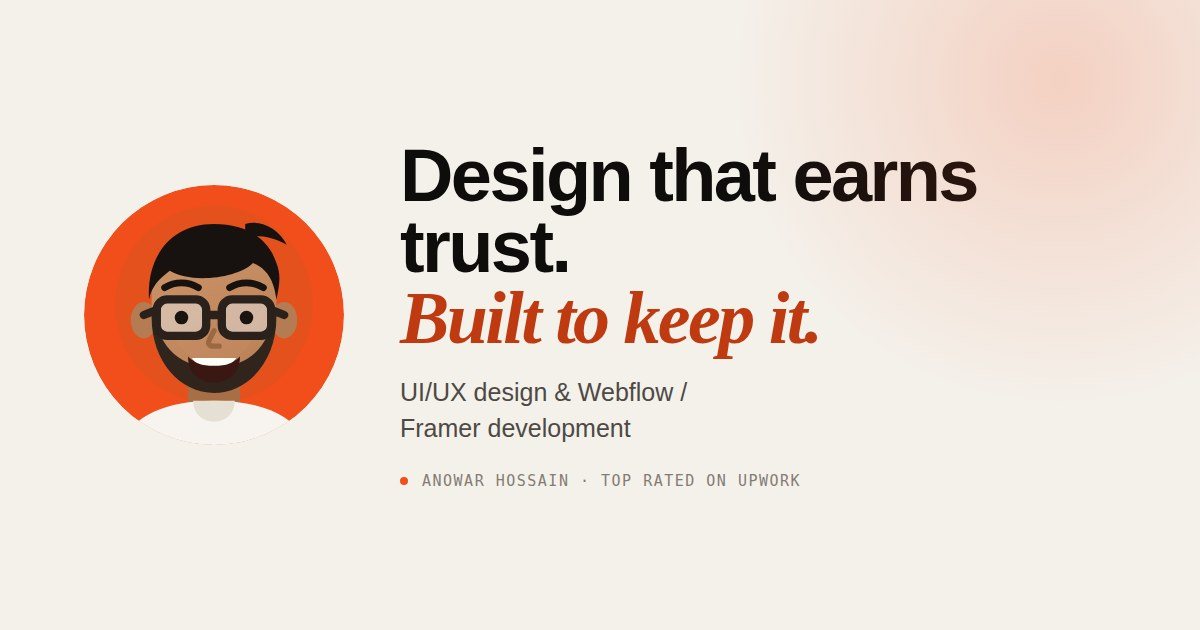
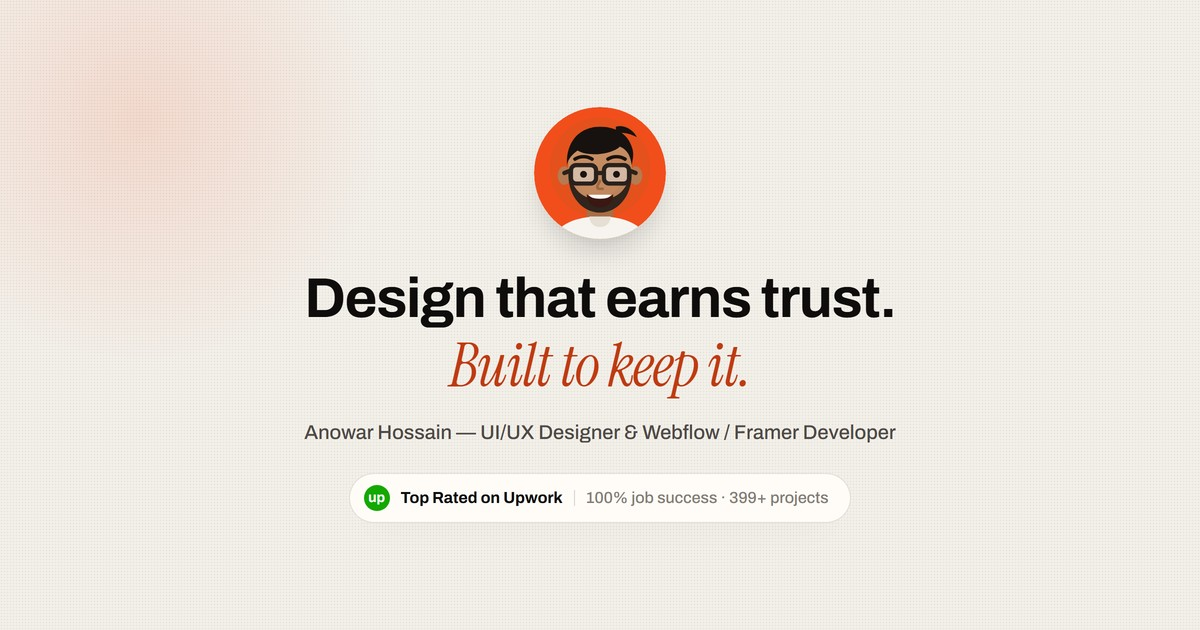
Ship the new social-share thumbnail (option C) with cache-busting
Replaced uploads/og-cover.jpg with the "portrait + credibility badge"
design: the avatar recentered (the old flat-left layout is exactly why
WhatsApp's square crop was cutting the headline off, per the screenshot
that started this), a bold two-line headline, and a graphic replica of
the "Top Rated on Upwork" badge for instant credibility in the preview
itself, before anyone even clicks through.

Also fixed a real caching bug on the way: og-cover.jpg keeps the same
URL across deploys, and /uploads/* is cached 30 days at the edge — worse,
Facebook/Slack/WhatsApp/LinkedIn all cache a *scraped* link preview
independently of any Cache-Control header we set, so replacing the file
in place could've gone on serving the old image indefinitely to anyone
who'd already shared a link. Same fix as the CSS/JS versioning already
in place: og:image and twitter:image URLs now carry a content-hash
?v= query string (OG_VER in build.py), so this and every future image
swap forces a fresh fetch automatically.

Changed region(s): [[0.0, 0.0, 0.9867, 0.7238], [0.2775, 0.754, 0.7092, 0.8143]]

diff --git a/services/ai-product-builds/index.html b/services/ai-product-builds/index.html
@@ -13,7 +13,7 @@
 <meta property="og:description" content="Design and production work on AI-built apps: Lovable, v0, Bolt and Claude Code prototypes taken to something you can ship. $750-$2,000, one to two-and-a-half weeks.">
 <meta property="og:type" content="website">
 <meta property="og:url" content="https://anowarhdesign.com/services/ai-product-builds">
-<meta property="og:image" content="https://anowarhdesign.com/uploads/og-cover.jpg">
+<meta property="og:image" content="https://anowarhdesign.com/uploads/og-cover.jpg?v=977c139b35">
 <meta property="og:image:width" content="1200">
 <meta property="og:image:height" content="630">
 <meta property="og:image:alt" content="Anowar Hossain — UI/UX design and Webflow / Framer development">
@@ -22,7 +22,7 @@
 <meta name="twitter:card" content="summary_large_image">
 <meta name="twitter:title" content="AI Product Builds | Finish Your Lovable App | Anowar Hossain">
 <meta name="twitter:description" content="Design and production work on AI-built apps: Lovable, v0, Bolt and Claude Code prototypes taken to something you can ship. $750-$2,000, one to two-and-a-half weeks.">
-<meta name="twitter:image" content="https://anowarhdesign.com/uploads/og-cover.jpg">
+<meta name="twitter:image" content="https://anowarhdesign.com/uploads/og-cover.jpg?v=977c139b35">
 <link rel="icon" href="/uploads/favicon.ico" sizes="32x32">
 <link rel="icon" type="image/svg+xml" href="/uploads/mark.svg">
 <link rel="icon" type="image/png" href="/uploads/mark-64.png" sizes="64x64">

diff --git a/services/webflow-development/index.html b/services/webflow-development/index.html
@@ -13,7 +13,7 @@
 <meta property="og:description" content="Production Webflow development with an editor-proof CMS. 6-12 page marketing sites, $1,250-$3,000, two to three weeks. Migration, QA and launch support included.">
 <meta property="og:type" content="website">
 <meta property="og:url" content="https://anowarhdesign.com/services/webflow-development">
-<meta property="og:image" content="https://anowarhdesign.com/uploads/og-cover.jpg">
+<meta property="og:image" content="https://anowarhdesign.com/uploads/og-cover.jpg?v=977c139b35">
 <meta property="og:image:width" content="1200">
 <meta property="og:image:height" content="630">
 <meta property="og:image:alt" content="Anowar Hossain — UI/UX design and Webflow / Framer development">
@@ -22,7 +22,7 @@
 <meta name="twitter:card" content="summary_large_image">
 <meta name="twitter:title" content="Webflow Developer for SaaS &amp; B2B Teams | Anowar Hossain">
 <meta name="twitter:description" content="Production Webflow development with an editor-proof CMS. 6-12 page marketing sites, $1,250-$3,000, two to three weeks. Migration, QA and launch support included.">
-<meta name="twitter:image" content="https://anowarhdesign.com/uploads/og-cover.jpg">
+<meta name="twitter:image" content="https://anowarhdesign.com/uploads/og-cover.jpg?v=977c139b35">
 <link rel="icon" href="/uploads/favicon.ico" sizes="32x32">
 <link rel="icon" type="image/svg+xml" href="/uploads/mark.svg">
 <link rel="icon" type="image/png" href="/uploads/mark-64.png" sizes="64x64">

diff --git a/services/framer-development/index.html b/services/framer-development/index.html
@@ -13,7 +13,7 @@
 <meta property="og:description" content="Framer development for landing pages and marketing sites. Live in three to seven days, from $450. Custom motion, CMS, launch support for startups and fundraises.">
 <meta property="og:type" content="website">
 <meta property="og:url" content="https://anowarhdesign.com/services/framer-development">
-<meta property="og:image" content="https://anowarhdesign.com/uploads/og-cover.jpg">
+<meta property="og:image" content="https://anowarhdesign.com/uploads/og-cover.jpg?v=977c139b35">
 <meta property="og:image:width" content="1200">
 <meta property="og:image:height" content="630">
 <meta property="og:image:alt" content="Anowar Hossain — UI/UX design and Webflow / Framer development">
@@ -22,7 +22,7 @@
 <meta name="twitter:card" content="summary_large_image">
 <meta name="twitter:title" content="Framer Developer for Hire | Anowar Hossain">
 <meta name="twitter:description" content="Framer development for landing pages and marketing sites. Live in three to seven days, from $450. Custom motion, CMS, launch support for startups and fundraises.">
-<meta name="twitter:image" content="https://anowarhdesign.com/uploads/og-cover.jpg">
+<meta name="twitter:image" content="https://anowarhdesign.com/uploads/og-cover.jpg?v=977c139b35">
 <link rel="icon" href="/uploads/favicon.ico" sizes="32x32">
 <link rel="icon" type="image/svg+xml" href="/uploads/mark.svg">
 <link rel="icon" type="image/png" href="/uploads/mark-64.png" sizes="64x64">

diff --git a/work/index.html b/work/index.html
@@ -13,7 +13,7 @@
 <meta property="og:description" content="Live Webflow and Framer sites for CADDi, Assistments, Stratus Neuro, SecureCDP, 0xBow and more - enterprise, SaaS, medtech and Web3 clients across the US and Europe.">
 <meta property="og:type" content="website">
 <meta property="og:url" content="https://anowarhdesign.com/work">
-<meta property="og:image" content="https://anowarhdesign.com/uploads/og-cover.jpg">
+<meta property="og:image" content="https://anowarhdesign.com/uploads/og-cover.jpg?v=977c139b35">
 <meta property="og:image:width" content="1200">
 <meta property="og:image:height" content="630">
 <meta property="og:image:alt" content="Anowar Hossain — UI/UX design and Webflow / Framer development">
@@ -22,7 +22,7 @@
 <meta name="twitter:card" content="summary_large_image">
 <meta name="twitter:title" content="Work | Webflow &amp; Framer Case Studies | Anowar Hossain">
 <meta name="twitter:description" content="Live Webflow and Framer sites for CADDi, Assistments, Stratus Neuro, SecureCDP, 0xBow and more - enterprise, SaaS, medtech and Web3 clients across the US and Europe.">
-<meta name="twitter:image" content="https://anowarhdesign.com/uploads/og-cover.jpg">
+<meta name="twitter:image" content="https://anowarhdesign.com/uploads/og-cover.jpg?v=977c139b35">
 <link rel="icon" href="/uploads/favicon.ico" sizes="32x32">
 <link rel="icon" type="image/svg+xml" href="/uploads/mark.svg">
 <link rel="icon" type="image/png" href="/uploads/mark-64.png" sizes="64x64">

diff --git a/contact/index.html b/contact/index.html
@@ -13,7 +13,7 @@
 <meta property="og:description" content="Book a 30-minute discovery call or email a brief. Replies within 24 hours, overlap hours with New York, London and Berlin, and a fixed quote within two working days.">
 <meta property="og:type" content="website">
 <meta property="og:url" content="https://anowarhdesign.com/contact">
-<meta property="og:image" content="https://anowarhdesign.com/uploads/og-cover.jpg">
+<meta property="og:image" content="https://anowarhdesign.com/uploads/og-cover.jpg?v=977c139b35">
 <meta property="og:image:width" content="1200">
 <meta property="og:image:height" content="630">
 <meta property="og:image:alt" content="Anowar Hossain — UI/UX design and Webflow / Framer development">
@@ -22,7 +22,7 @@
 <meta name="twitter:card" content="summary_large_image">
 <meta name="twitter:title" content="Contact | Book a Discovery Call | Anowar Hossain">
 <meta name="twitter:description" content="Book a 30-minute discovery call or email a brief. Replies within 24 hours, overlap hours with New York, London and Berlin, and a fixed quote within two working days.">
-<meta name="twitter:image" content="https://anowarhdesign.com/uploads/og-cover.jpg">
+<meta name="twitter:image" content="https://anowarhdesign.com/uploads/og-cover.jpg?v=977c139b35">
 <link rel="icon" href="/uploads/favicon.ico" sizes="32x32">
 <link rel="icon" type="image/svg+xml" href="/uploads/mark.svg">
 <link rel="icon" type="image/png" href="/uploads/mark-64.png" sizes="64x64">

diff --git a/about/index.html b/about/index.html
@@ -13,7 +13,7 @@
 <meta property="og:description" content="Anowar Hossain is a UI/UX designer and Webflow & Framer developer in Dhaka, working with US and European teams. Top Rated on Upwork, 2,237 hours logged.">
 <meta property="og:type" content="website">
 <meta property="og:url" content="https://anowarhdesign.com/about">
-<meta property="og:image" content="https://anowarhdesign.com/uploads/og-cover.jpg">
+<meta property="og:image" content="https://anowarhdesign.com/uploads/og-cover.jpg?v=977c139b35">
 <meta property="og:image:width" content="1200">
 <meta property="og:image:height" content="630">
 <meta property="og:image:alt" content="Anowar Hossain — UI/UX design and Webflow / Framer development">
@@ -22,7 +22,7 @@
 <meta name="twitter:card" content="summary_large_image">
 <meta name="twitter:title" content="About Anowar Hossain | UI/UX Designer &amp; Webflow Developer">
 <meta name="twitter:description" content="Anowar Hossain is a UI/UX designer and Webflow & Framer developer in Dhaka, working with US and European teams. Top Rated on Upwork, 2,237 hours logged.">
-<meta name="twitter:image" content="https://anowarhdesign.com/uploads/og-cover.jpg">
+<meta name="twitter:image" content="https://anowarhdesign.com/uploads/og-cover.jpg?v=977c139b35">
 <link rel="icon" href="/uploads/favicon.ico" sizes="32x32">
 <link rel="icon" type="image/svg+xml" href="/uploads/mark.svg">
 <link rel="icon" type="image/png" href="/uploads/mark-64.png" sizes="64x64">

diff --git a/services/index.html b/services/index.html
@@ -13,7 +13,7 @@
 <meta property="og:description" content="Product design, Webflow and Framer development, and AI product builds. One operator, fixed quotes, two to three weeks, for teams in the US and Europe.">
 <meta property="og:type" content="website">
 <meta property="og:url" content="https://anowarhdesign.com/services">
-<meta property="og:image" content="https://anowarhdesign.com/uploads/og-cover.jpg">
+<meta property="og:image" content="https://anowarhdesign.com/uploads/og-cover.jpg?v=977c139b35">
 <meta property="og:image:width" content="1200">
 <meta property="og:image:height" content="630">
 <meta property="og:image:alt" content="Anowar Hossain — UI/UX design and Webflow / Framer development">
@@ -22,7 +22,7 @@
 <meta name="twitter:card" content="summary_large_image">
 <meta name="twitter:title" content="Services | Design &amp; Webflow Development | Anowar Hossain">
 <meta name="twitter:description" content="Product design, Webflow and Framer development, and AI product builds. One operator, fixed quotes, two to three weeks, for teams in the US and Europe.">
-<meta name="twitter:image" content="https://anowarhdesign.com/uploads/og-cover.jpg">
+<meta name="twitter:image" content="https://anowarhdesign.com/uploads/og-cover.jpg?v=977c139b35">
 <link rel="icon" href="/uploads/favicon.ico" sizes="32x32">
 <link rel="icon" type="image/svg+xml" href="/uploads/mark.svg">
 <link rel="icon" type="image/png" href="/uploads/mark-64.png" sizes="64x64">

diff --git a/index.html b/index.html
@@ -13,7 +13,7 @@
 <meta property="og:description" content="UI/UX designer and Webflow &amp; Framer developer for SaaS, AI and enterprise teams in the US and Europe. Top Rated on Upwork. Fixed quotes, one operator.">
 <meta property="og:type" content="website">
 <meta property="og:url" content="https://anowarhdesign.com/">
-<meta property="og:image" content="https://anowarhdesign.com/uploads/og-cover.jpg">
+<meta property="og:image" content="https://anowarhdesign.com/uploads/og-cover.jpg?v=977c139b35">
 <meta property="og:image:width" content="1200">
 <meta property="og:image:height" content="630">
 <meta property="og:image:alt" content="Anowar Hossain — UI/UX design and Webflow / Framer development">
@@ -22,7 +22,7 @@
 <meta name="twitter:card" content="summary_large_image">
 <meta name="twitter:title" content="Anowar Hossain | UI/UX Designer &amp; Webflow Developer">
 <meta name="twitter:description" content="UI/UX designer and Webflow &amp; Framer developer for SaaS, AI and enterprise teams in the US and Europe. Top Rated on Upwork. Fixed quotes, one operator.">
-<meta name="twitter:image" content="https://anowarhdesign.com/uploads/og-cover.jpg">
+<meta name="twitter:image" content="https://anowarhdesign.com/uploads/og-cover.jpg?v=977c139b35">
 <link rel="icon" href="/uploads/favicon.ico" sizes="32x32">
 <link rel="icon" type="image/svg+xml" href="/uploads/mark.svg">
 <link rel="icon" type="image/png" href="/uploads/mark-64.png" sizes="64x64">

diff --git a/pricing/index.html b/pricing/index.html
@@ -13,7 +13,7 @@
 <meta property="og:description" content="Webflow and Framer pricing: landing pages from $450, marketing sites $1,250-$3,000, product design $1,500-$3,500. Fixed quotes, no hourly meters.">
 <meta property="og:type" content="website">
 <meta property="og:url" content="https://anowarhdesign.com/pricing">
-<meta property="og:image" content="https://anowarhdesign.com/uploads/og-cover.jpg">
+<meta property="og:image" content="https://anowarhdesign.com/uploads/og-cover.jpg?v=977c139b35">
 <meta property="og:image:width" content="1200">
 <meta property="og:image:height" content="630">
 <meta property="og:image:alt" content="Anowar Hossain — UI/UX design and Webflow / Framer development">
@@ -22,7 +22,7 @@
 <meta name="twitter:card" content="summary_large_image">
 <meta name="twitter:title" content="Pricing | What a Webflow or Framer Site Costs | Anowar Hossain">
 <meta name="twitter:description" content="Webflow and Framer pricing: landing pages from $450, marketing sites $1,250-$3,000, product design $1,500-$3,500. Fixed quotes, no hourly meters.">
-<meta name="twitter:image" content="https://anowarhdesign.com/uploads/og-cover.jpg">
+<meta name="twitter:image" content="https://anowarhdesign.com/uploads/og-cover.jpg?v=977c139b35">
 <link rel="icon" href="/uploads/favicon.ico" sizes="32x32">
 <link rel="icon" type="image/svg+xml" href="/uploads/mark.svg">
 <link rel="icon" type="image/png" href="/uploads/mark-64.png" sizes="64x64">

diff --git a/process/index.html b/process/index.html
@@ -13,7 +13,7 @@
 <meta property="og:description" content="The eight stages of every project: discovery, strategy, UX, UI, build, QA, launch, support. Weekly demos and time-zone overlap with US and EU teams.">
 <meta property="og:type" content="website">
 <meta property="og:url" content="https://anowarhdesign.com/process">
-<meta property="og:image" content="https://anowarhdesign.com/uploads/og-cover.jpg">
+<meta property="og:image" content="https://anowarhdesign.com/uploads/og-cover.jpg?v=977c139b35">
 <meta property="og:image:width" content="1200">
 <meta property="og:image:height" content="630">
 <meta property="og:image:alt" content="Anowar Hossain — UI/UX design and Webflow / Framer development">
@@ -22,7 +22,7 @@
 <meta name="twitter:card" content="summary_large_image">
 <meta name="twitter:title" content="Process | How a Project Runs | Anowar Hossain">
 <meta name="twitter:description" content="The eight stages of every project: discovery, strategy, UX, UI, build, QA, launch, support. Weekly demos and time-zone overlap with US and EU teams.">
-<meta name="twitter:image" content="https://anowarhdesign.com/uploads/og-cover.jpg">
+<meta name="twitter:image" content="https://anowarhdesign.com/uploads/og-cover.jpg?v=977c139b35">
 <link rel="icon" href="/uploads/favicon.ico" sizes="32x32">
 <link rel="icon" type="image/svg+xml" href="/uploads/mark.svg">
 <link rel="icon" type="image/png" href="/uploads/mark-64.png" sizes="64x64">

diff --git a/services/product-design/index.html b/services/product-design/index.html
@@ -13,7 +13,7 @@
 <meta property="og:description" content="UX and interface design for SaaS and mobile products, delivered developer-ready in Figma. Two to four weeks, $1,500-$3,500, fixed quote.">
 <meta property="og:type" content="website">
 <meta property="og:url" content="https://anowarhdesign.com/services/product-design">
-<meta property="og:image" content="https://anowarhdesign.com/uploads/og-cover.jpg">
+<meta property="og:image" content="https://anowarhdesign.com/uploads/og-cover.jpg?v=977c139b35">
 <meta property="og:image:width" content="1200">
 <meta property="og:image:height" content="630">
 <meta property="og:image:alt" content="Anowar Hossain — UI/UX design and Webflow / Framer development">
@@ -22,7 +22,7 @@
 <meta name="twitter:card" content="summary_large_image">
 <meta name="twitter:title" content="Product Design for SaaS &amp; Mobile | Anowar Hossain">
 <meta name="twitter:description" content="UX and interface design for SaaS and mobile products, delivered developer-ready in Figma. Two to four weeks, $1,500-$3,500, fixed quote.">
-<meta name="twitter:image" content="https://anowarhdesign.com/uploads/og-cover.jpg">
+<meta name="twitter:image" content="https://anowarhdesign.com/uploads/og-cover.jpg?v=977c139b35">
 <link rel="icon" href="/uploads/favicon.ico" sizes="32x32">
 <link rel="icon" type="image/svg+xml" href="/uploads/mark.svg">
 <link rel="icon" type="image/png" href="/uploads/mark-64.png" sizes="64x64">

diff --git a/build/build.py b/build/build.py
@@ -17,6 +17,12 @@ def _asset_ver(name):
 
 CSS_VER = _asset_ver("site.css")
 JS_VER = _asset_ver("site.js")
+# same reasoning as the CSS/JS cache-busting above: og-cover.jpg keeps the same
+# URL across deploys, and social platforms (Facebook, Slack, WhatsApp, LinkedIn)
+# cache a scraped link preview independently of our own Cache-Control header —
+# a same-URL replacement can go on serving the old image indefinitely unless
+# the URL itself changes.
+OG_VER = hashlib.md5((ROOT / "uploads" / "og-cover.jpg").read_bytes()).hexdigest()[:10]
 
 NAV = [("Services", "/services"), ("Work", "/work"), ("Pricing", "/pricing"),
        ("Process", "/process"), ("About", "/about")]
@@ -229,7 +235,7 @@ def page(path, title, desc, body, schema, current="", trail=None):
 <meta property="og:description" content="{desc}">
 <meta property="og:type" content="website">
 <meta property="og:url" content="{url}">
-<meta property="og:image" content="{SITE}/uploads/og-cover.jpg">
+<meta property="og:image" content="{SITE}/uploads/og-cover.jpg?v={OG_VER}">
 <meta property="og:image:width" content="1200">
 <meta property="og:image:height" content="630">
 <meta property="og:image:alt" content="Anowar Hossain — UI/UX design and Webflow / Framer development">
@@ -238,7 +244,7 @@ def page(path, title, desc, body, schema, current="", trail=None):
 <meta name="twitter:card" content="summary_large_image">
 <meta name="twitter:title" content="{title}">
 <meta name="twitter:description" content="{desc}">
-<meta name="twitter:image" content="{SITE}/uploads/og-cover.jpg">
+<meta name="twitter:image" content="{SITE}/uploads/og-cover.jpg?v={OG_VER}">
 <link rel="icon" href="/uploads/favicon.ico" sizes="32x32">
 <link rel="icon" type="image/svg+xml" href="/uploads/mark.svg">
 <link rel="icon" type="image/png" href="/uploads/mark-64.png" sizes="64x64">
